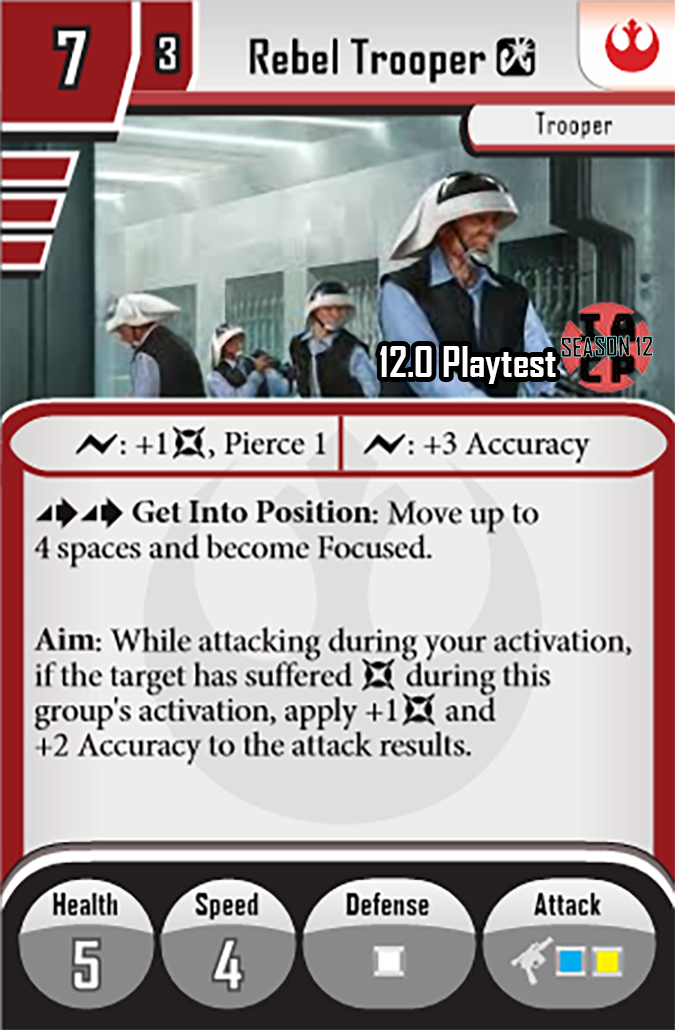
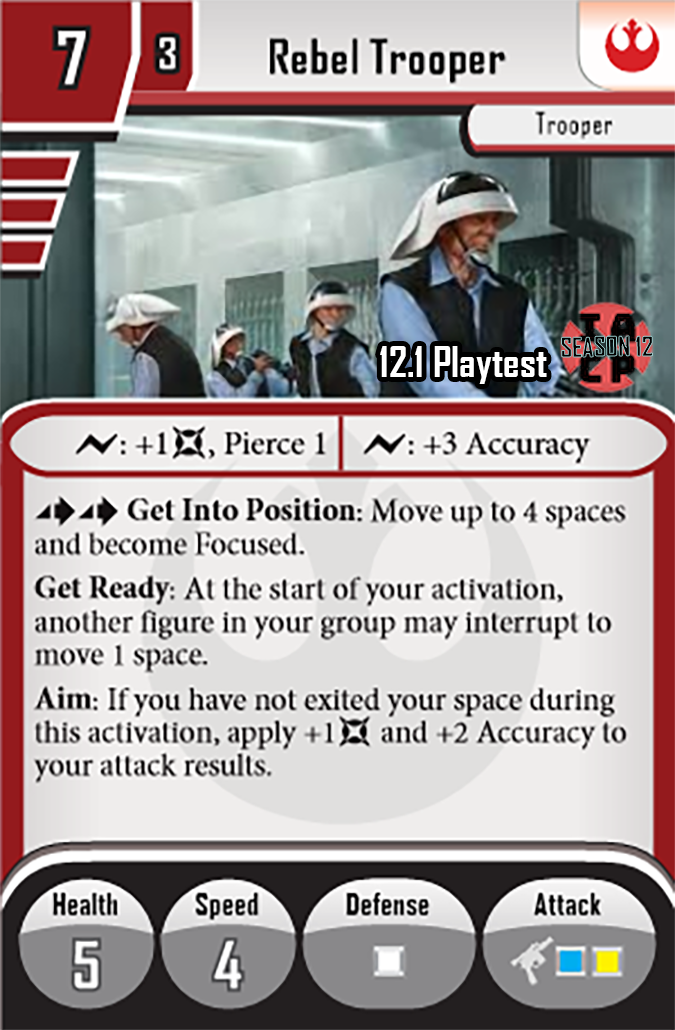
chore: apply IACP 12.1 card and image updates
Made-with: Cursor

Changed region(s): [[0.0311, 0.466, 0.9333, 0.7767], [0.3422, 0.0311, 0.8089, 0.0932], [0.5911, 0.3107, 0.84, 0.3728]]

diff --git a/CHANGELOG.md b/CHANGELOG.md
@@ -43,6 +43,7 @@ and this project adheres to [Semantic Versioning](https://semver.org/spec/v2.0.0
 - **cards.json:** Removed "Guardian" trait from Fennec. Removed The Armorer deployment card and its associated command card. Removed Asajj Ventress deployment card and its associated command card.
 - Updated images for: You Will Not Deny Me [IACP], Moff Gideon [IACP], Purge Commander [Elite] [IACP].
 - Updated image for Rancor [Elite] [IACP] deployment card.
+- **IACP 12.1 updates:** Updated cards.json entries and IACP card images for The Armorer, Bantha Rider, Dioxis Fumes, Get Behind Me, KX-Series Security Droid, Mortar Trooper, and Rebel Trooper.
 - **Search:** Updated search logic so the card search box matches against `Name`, `Traits`, `Characteristics`, and the structured card text fields (`Text`, `Abilities`, `SpecialAbilities`) instead of the legacy `AllText` field. Also includes `UnitsRequired` and `TraitsRequired` in search matches.
 - **Card editor:** Replaced `AllText` with `Text`, `Abilities`, and `SpecialAbilities`. Fixed multiline editing so spaces/newlines are preserved while typing, and normalized whitespace on save.
 - **Card editor:** Normalize numeric fields on save so `ID`, `Cost`, `FigureCount`, `Max`, `Health`, `Speed`, and `ImageOffset` are stored as numbers (not strings).
